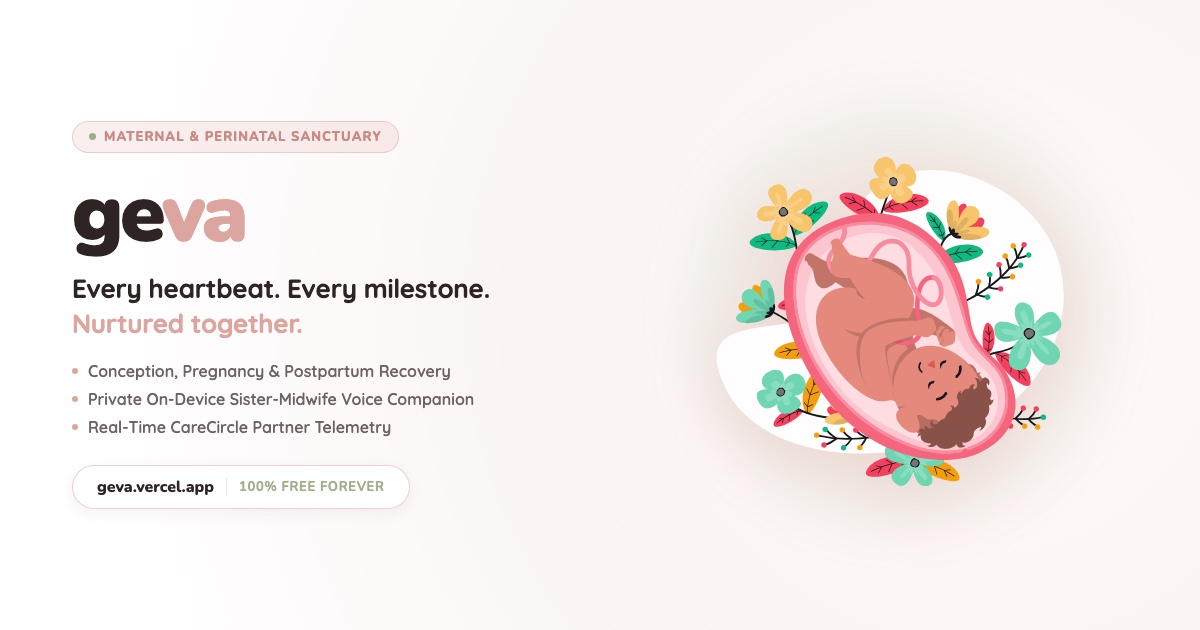
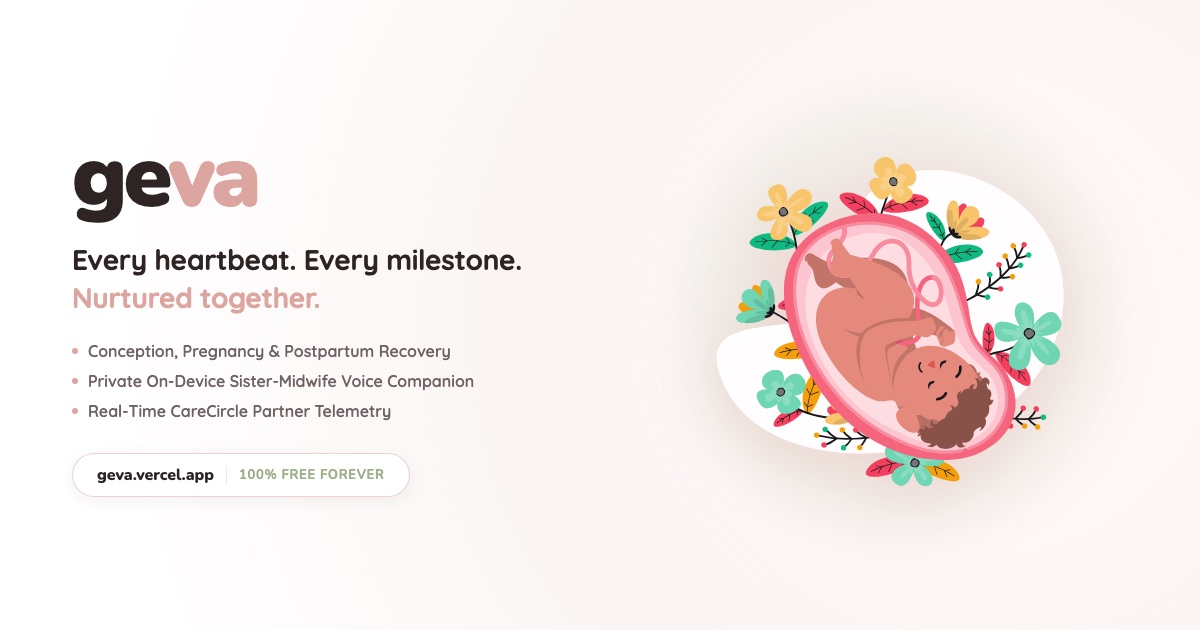
feat: remove eyebrow pill from opengraph image suite

Changed region(s): [[0.0617, 0.181, 0.4317, 0.6937], [0.0617, 0.7238, 0.3392, 0.8143]]

diff --git a/scripts/generate-og-image.py b/scripts/generate-og-image.py
@@ -44,53 +44,31 @@ html_split = f"""<!DOCTYPE html>
       position: relative;
     }}
     .left-col {{
-      width: 580px;
+      width: 590px;
       display: flex;
       flex-direction: column;
       align-items: flex-start;
       z-index: 2;
     }}
-    .eyebrow {{
-      display: inline-flex;
-      align-items: center;
-      gap: 8px;
-      background: rgba(221, 165, 159, 0.18);
-      border: 1px solid rgba(221, 165, 159, 0.45);
-      border-radius: 9999px;
-      padding: 6px 16px;
-      font-family: 'Nunito', sans-serif;
-      font-size: 13px;
-      font-weight: 800;
-      letter-spacing: 0.08em;
-      text-transform: uppercase;
-      color: #C88B85;
-      margin-bottom: 20px;
-    }}
-    .eyebrow-dot {{
-      width: 7px;
-      height: 7px;
-      border-radius: 50%;
-      background: #9CAF88;
-    }}
     .brand-title {{
       font-family: 'Nunito', sans-serif;
-      font-size: 82px;
+      font-size: 88px;
       font-weight: 900;
       letter-spacing: -0.04em;
       color: #2D2424;
       line-height: 1;
-      margin-bottom: 16px;
+      margin-bottom: 20px;
     }}
     .brand-title span {{
       color: #DDA59F;
     }}
     .tagline {{
       font-family: 'Quicksand', sans-serif;
-      font-size: 26px;
+      font-size: 28px;
       font-weight: 700;
       color: #2D2424;
       line-height: 1.35;
-      margin-bottom: 20px;
+      margin-bottom: 24px;
       letter-spacing: -0.01em;
     }}
     .tagline .highlight {{
@@ -99,8 +77,8 @@ html_split = f"""<!DOCTYPE html>
     .feature-list {{
       display: flex;
       flex-direction: column;
-      gap: 8px;
-      margin-bottom: 28px;
+      gap: 10px;
+      margin-bottom: 32px;
     }}
     .feature-item {{
       display: flex;
@@ -170,10 +148,6 @@ html_split = f"""<!DOCTYPE html>
 </head>
 <body>
   <div class="left-col">
-    <div class="eyebrow">
-      <div class="eyebrow-dot"></div>
-      <span>Maternal & Perinatal Sanctuary</span>
-    </div>
     <h1 class="brand-title">ge<span>va</span></h1>
     <p class="tagline">Every heartbeat. Every milestone.<br><span class="highlight">Nurtured together.</span></p>
     <div class="feature-list">
